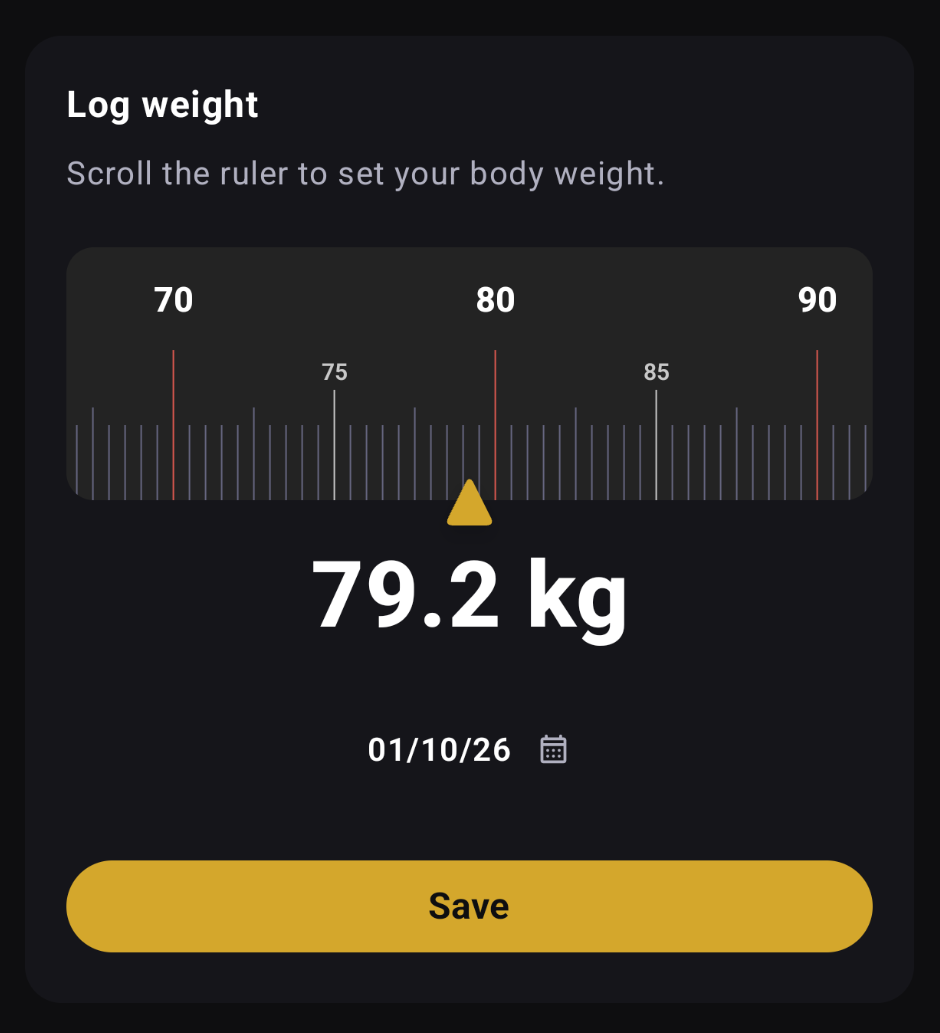
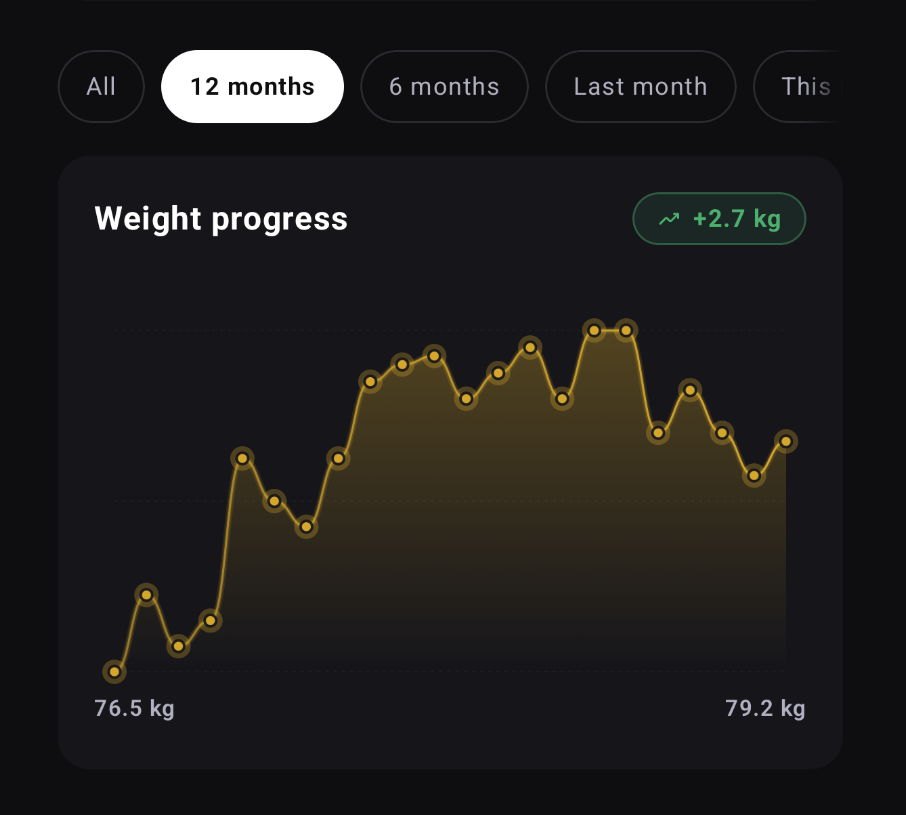
sections.

diff --git a/gymnerd/index.html b/gymnerd/index.html
@@ -438,8 +438,8 @@
 			width: 90%;
 			aspect-ratio: 1;
 			translate: -50% -50%;
-			background: radial-gradient(circle, rgba(228, 229, 232, .3) 0%, rgba(228, 229, 232, .12) 45%, transparent 70%);
-			filter: blur(40px);
+			background: radial-gradient(circle, rgba(228, 229, 232, .16) 0%, rgba(228, 229, 232, .06) 40%, transparent 65%);
+			filter: blur(44px);
 			pointer-events: none;
 		}
 
@@ -470,8 +470,8 @@
 
 		.stats-art .widget:nth-of-type(3) { align-self: flex-start; transform: rotateY(-9deg) rotateZ(-1deg); z-index: 4; }
 
-		.measure-art .widget:nth-of-type(1) { border-radius: 5.5% / 5%; }
-		.measure-art .widget:nth-of-type(2) { border-radius: 5.5% / 6.1%; }
+		.measure-art .widget:nth-of-type(1) { border-radius: 5.5% / 6.1%; }
+		.measure-art .widget:nth-of-type(2) { border-radius: 5.5% / 5%; }
 
 		.stats-art .widget:nth-of-type(1) { align-self: flex-start; transform: rotateY(-9deg) rotateZ(-1.5deg); z-index: 2; margin-top: 16px; }
 		.stats-art .widget:nth-of-type(2) { align-self: flex-end; transform: rotateY(9deg) rotateZ(1.5deg); z-index: 3; }
@@ -530,6 +530,15 @@
 			animation: viewer-in .25s var(--ease);
 		}
 
+		.viewer {
+			--nav-x: 100px; /* side room kept clear for the prev/next buttons */
+			--nav-y: 0px;
+		}
+
+		.viewer.single {
+			--nav-x: 0px;
+		}
+
 		.viewer-stage {
 			display: flex;
 			align-items: center;
@@ -541,7 +550,7 @@
 			--bezel: 10px;
 			--corner: 46px;
 			--gap: 28px; /* same inset as the close button */
-			--screen-h: min(calc(100vh - 2 * var(--gap) - 2 * var(--bezel) - 3px), calc((100vw - 2 * var(--gap) - 2 * var(--bezel) - 3px) * 2636 / 1280));
+			--screen-h: min(calc(100vh - 2 * var(--gap) - var(--nav-y) - 2 * var(--bezel) - 3px), calc((100vw - 2 * var(--nav-x) - 2 * var(--bezel) - 3px) * 2636 / 1280));
 			flex: none;
 			filter: drop-shadow(0 0 1px #E4E5E8) drop-shadow(0 24px 48px rgba(0, 0, 0, .6));
 		}
@@ -551,8 +560,8 @@
 		}
 
 		.viewer-stage > img {
-			max-width: 94vw;
-			max-height: 94vh;
+			max-width: calc(100vw - 2 * max(var(--nav-x), 3vw));
+			max-height: calc(94vh - var(--nav-y));
 			object-fit: contain;
 			filter: drop-shadow(0 0 1px #E4E5E8) drop-shadow(0 24px 48px rgba(0, 0, 0, .6));
 		}
@@ -617,6 +626,30 @@
 		.viewer.single .nav,
 		.viewer.single .dots {
 			display: none;
+		}
+
+		/* narrow screens: buttons drop to the bottom corners, image keeps the full width */
+		@media (max-width: 700px) {
+			.viewer {
+				--nav-x: 12px;
+				--nav-y: 72px;
+				box-sizing: border-box;
+				padding-bottom: var(--nav-y);
+			}
+
+			.viewer.single {
+				--nav-y: 0px;
+				padding-bottom: 0;
+			}
+
+			.viewer button.nav {
+				top: auto;
+				bottom: 14px;
+				translate: none;
+			}
+
+			.viewer button.prev { left: 16px; }
+			.viewer button.next { right: 16px; }
 		}
 
 		@keyframes viewer-in {
@@ -713,14 +746,100 @@
 			}
 		}
 
+		/* scroll-down arrow */
+		.hero .scroll-down {
+			position: absolute;
+			left: 50%;
+			bottom: 16px;
+			z-index: 3;
+			translate: -50% 0;
+			width: 44px;
+			height: 44px;
+			display: grid;
+			place-items: center;
+			color: var(--text-2);
+			border-radius: 50%;
+			animation: hero-bob 2s ease-in-out infinite;
+		}
+
+		.hero .scroll-down:hover {
+			color: var(--primary);
+		}
+
+		.hero .scroll-down svg {
+			width: 26px;
+			height: 26px;
+		}
+
+		@keyframes hero-bob {
+			0%, 100% { transform: translateY(0); }
+			50% { transform: translateY(6px); }
+		}
+
+		@media (prefers-reduced-motion: reduce) {
+			.hero .scroll-down { animation: none; }
+		}
+
+		/* mobile hero: fills the viewport; image on top (cropped), text overlaps its bottom edge */
+		@media (max-width: 859px) {
+			.hero {
+				display: flex;
+				flex-direction: column;
+				min-height: calc(100vh - 64px);
+				min-height: calc(100svh - 64px);
+				padding: 24px 0 72px;
+			}
+
+			.hero .wrap {
+				flex: 1;
+				grid-template-rows: minmax(0, 1fr) auto;
+				gap: 0;
+			}
+
+			.hero .media {
+				order: -1;
+				align-self: stretch;
+				max-height: none;
+				/* image is absolutely positioned so it never sets the height;
+				   media takes the leftover space, with a floor so text + arrow always fit */
+				min-height: 180px;
+				overflow: hidden;
+				-webkit-mask-image: linear-gradient(to bottom, transparent 0, #000 56px, #000 30%, transparent calc(100% - 48px));
+				mask-image: linear-gradient(to bottom, transparent 0, #000 56px, #000 30%, transparent calc(100% - 48px));
+			}
+
+			/* softer glow on mobile: faint, wide, no hard white core */
+			.hero .media::before {
+				top: 30%;
+				background: radial-gradient(circle, rgba(228, 229, 232, .16) 0%, rgba(228, 229, 232, .06) 45%, transparent 70%);
+				filter: blur(40px);
+			}
+
+			.hero .device {
+				position: absolute;
+				top: 32px;
+				left: 50%;
+				translate: -50% 0;
+				width: max-content;
+				max-width: none;
+			}
+
+			.hero .wrap > div:first-child {
+				position: relative;
+				z-index: 2;
+				align-self: end;
+				margin-top: -64px;
+			}
+		}
+
 		@media (min-width: 860px) {
 			.hero {
 				/* Keep the hero within the viewport instead of letting the
 				   tall portrait image determine the section height. */
 				height: calc(100vh - 64px);
+				height: calc(100svh - 64px);
 				min-height: 560px;
-				max-height: 900px;
-				padding: 48px 0;
+				padding: 48px 0 80px;
 			}
 
 			.hero .wrap {
@@ -800,50 +919,36 @@
 				transform: translateZ(150px) rotateY(16deg) rotateX(4deg) rotateZ(-2deg);
 			}
 
-			/* measurements: phone centered, widgets on opposite diagonal corners */
+			/* measurements: mirror of stats, phone on the right and widgets stepping out to the left */
 			.measure-art .device {
-				left: 31%;
-				right: auto;
-				width: 36%;
-				transform: rotateZ(-2deg);
+				left: auto;
+				right: 0;
+				transform: rotateY(-16deg) rotateZ(2deg);
 			}
 
 			.measure-art .widget:nth-of-type(1) {
-				left: 0;
-				top: 3%;
-				width: 40%;
-				z-index: 4;
-				transform: translateZ(120px) rotateY(18deg) rotateX(5deg) rotateZ(-4deg);
+				left: 20%;
+				top: 0;
+				transform: translateZ(60px) rotateY(-16deg) rotateX(4deg) rotateZ(2deg);
 			}
 
 			.measure-art .widget:nth-of-type(2) {
-				left: 60%;
-				top: 50%;
-				width: 40%;
-				transform: translateZ(120px) rotateY(-18deg) rotateX(-4deg) rotateZ(3deg);
+				left: 4%;
+				top: 35%;
+				transform: translateZ(150px) rotateY(-16deg) rotateX(4deg) rotateZ(2deg);
 			}
 
-			/* assistant: phone centered, two widgets on opposite sides */
-			.assist-art .device {
-				left: 31%;
-				width: 36%;
-				transform: rotateZ(2deg);
-			}
-
+			/* assistant: same as stats; the widgets are wide and short, so they get more width */
 			.assist-art .widget:nth-of-type(1) {
-				left: 0;
-				top: 2%;
-				width: 44%;
-				z-index: 4;
-				transform: translateZ(130px) rotateY(18deg) rotateX(5deg) rotateZ(-4deg);
+				left: 44%;
+				top: 21%;
+				width: 50%;
 			}
 
 			.assist-art .widget:nth-of-type(2) {
-				left: 58%;
-				top: 28%;
-				width: 42%;
-				z-index: 3;
-				transform: translateZ(100px) rotateY(-18deg) rotateX(-3deg) rotateZ(3deg);
+				left: 54%;
+				top: 49%;
+				width: 44%;
 			}
 
 			.block.flip .media {
@@ -893,6 +998,9 @@
 							alt="GymNerd app"/></div></div>
 				</div>
 			</div>
+			<a href="#routines" class="scroll-down" aria-label="Scroll down">
+				<svg viewBox="0 0 24 24" fill="none" stroke="currentColor" stroke-width="2" stroke-linecap="round" stroke-linejoin="round" aria-hidden="true"><path d="M6 9l6 6 6-6"/></svg>
+			</a>
 		</section>
 
 		<section class="block" id="routines">
@@ -954,8 +1062,8 @@
 			<div class="wrap">
 				<div class="media stats-art measure-art rv">
 					<div class="device"><div class="screen"><img src="assets/images/measurements.png" alt="GymNerd weight history screen" /></div></div>
-					<img class="widget" src="assets/images/measurements._widget_1.png" alt="Log weight with a scrolling ruler" />
-					<img class="widget" src="assets/images/measurements._widget_2.png" alt="Weight progress chart" />
+					<img class="widget" src="assets/images/measurements._widget_1.png" alt="Weight progress chart" />
+					<img class="widget" src="assets/images/measurements._widget_2.png" alt="Log weight with a scrolling ruler" />
 				</div>
 				<div class="rv d1">
 					<h2 data-i18n="measurements.title">Measurements title</h2>
